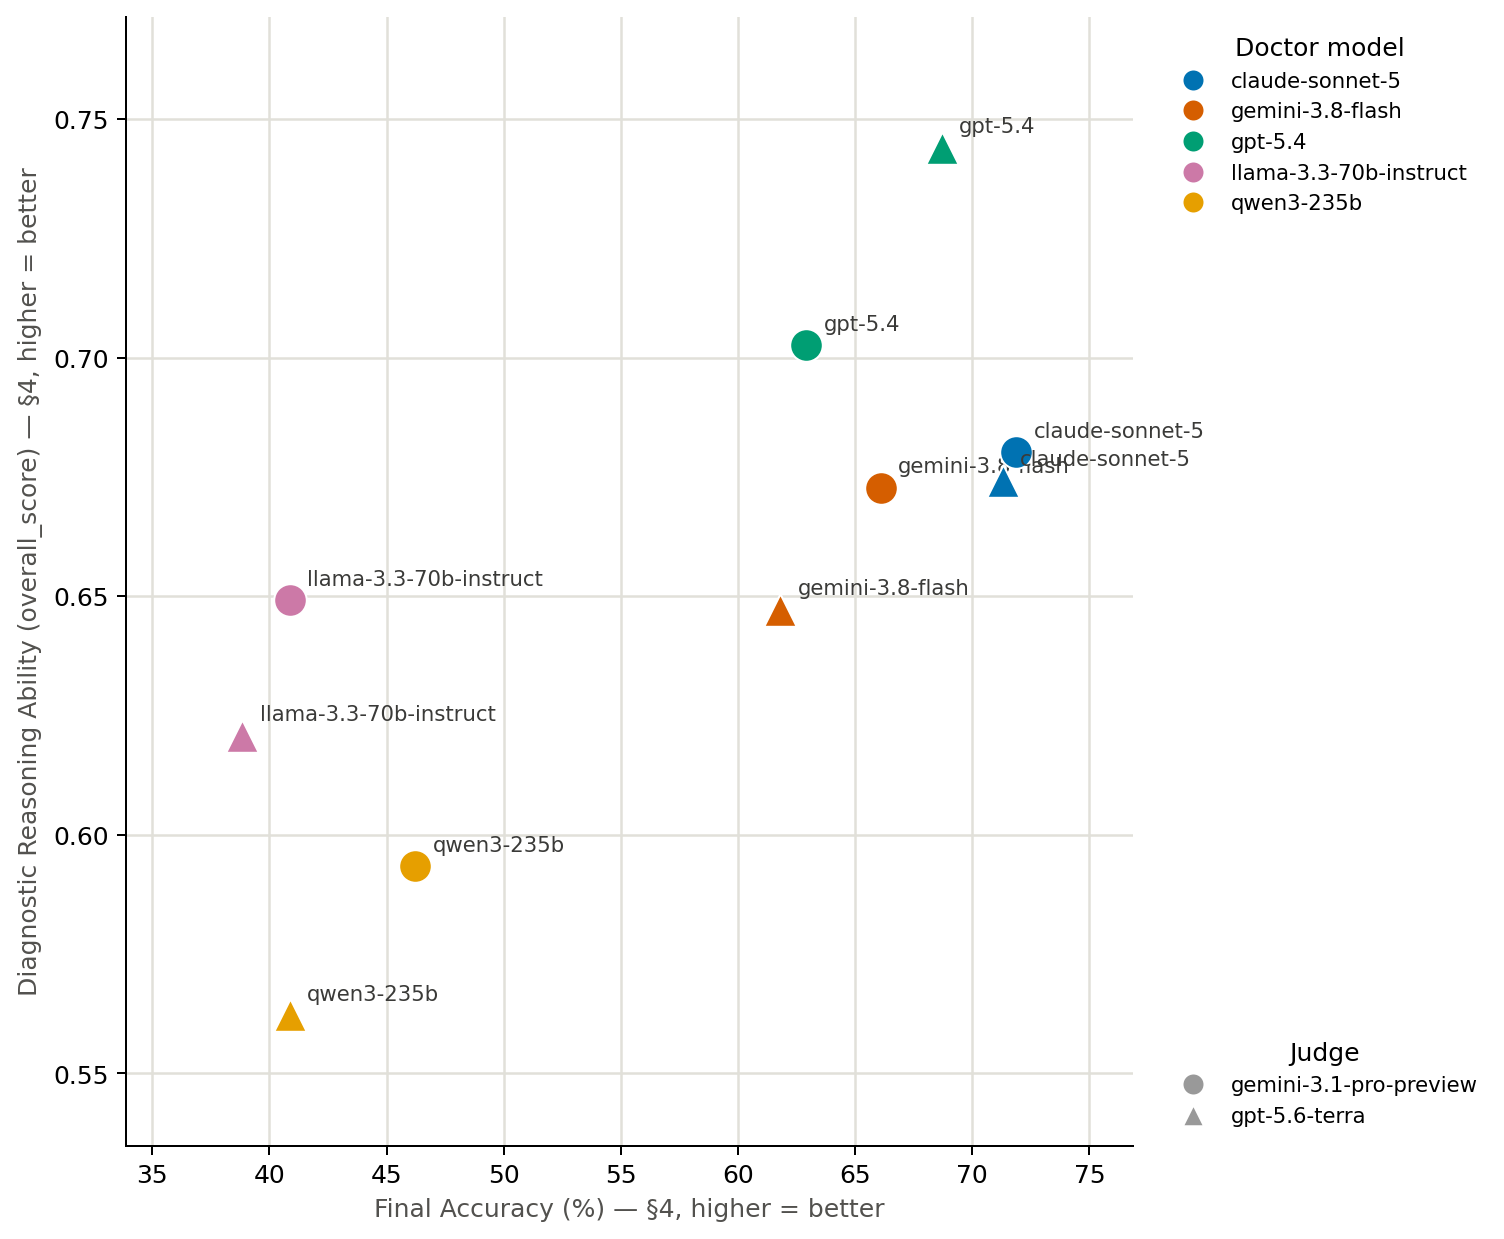
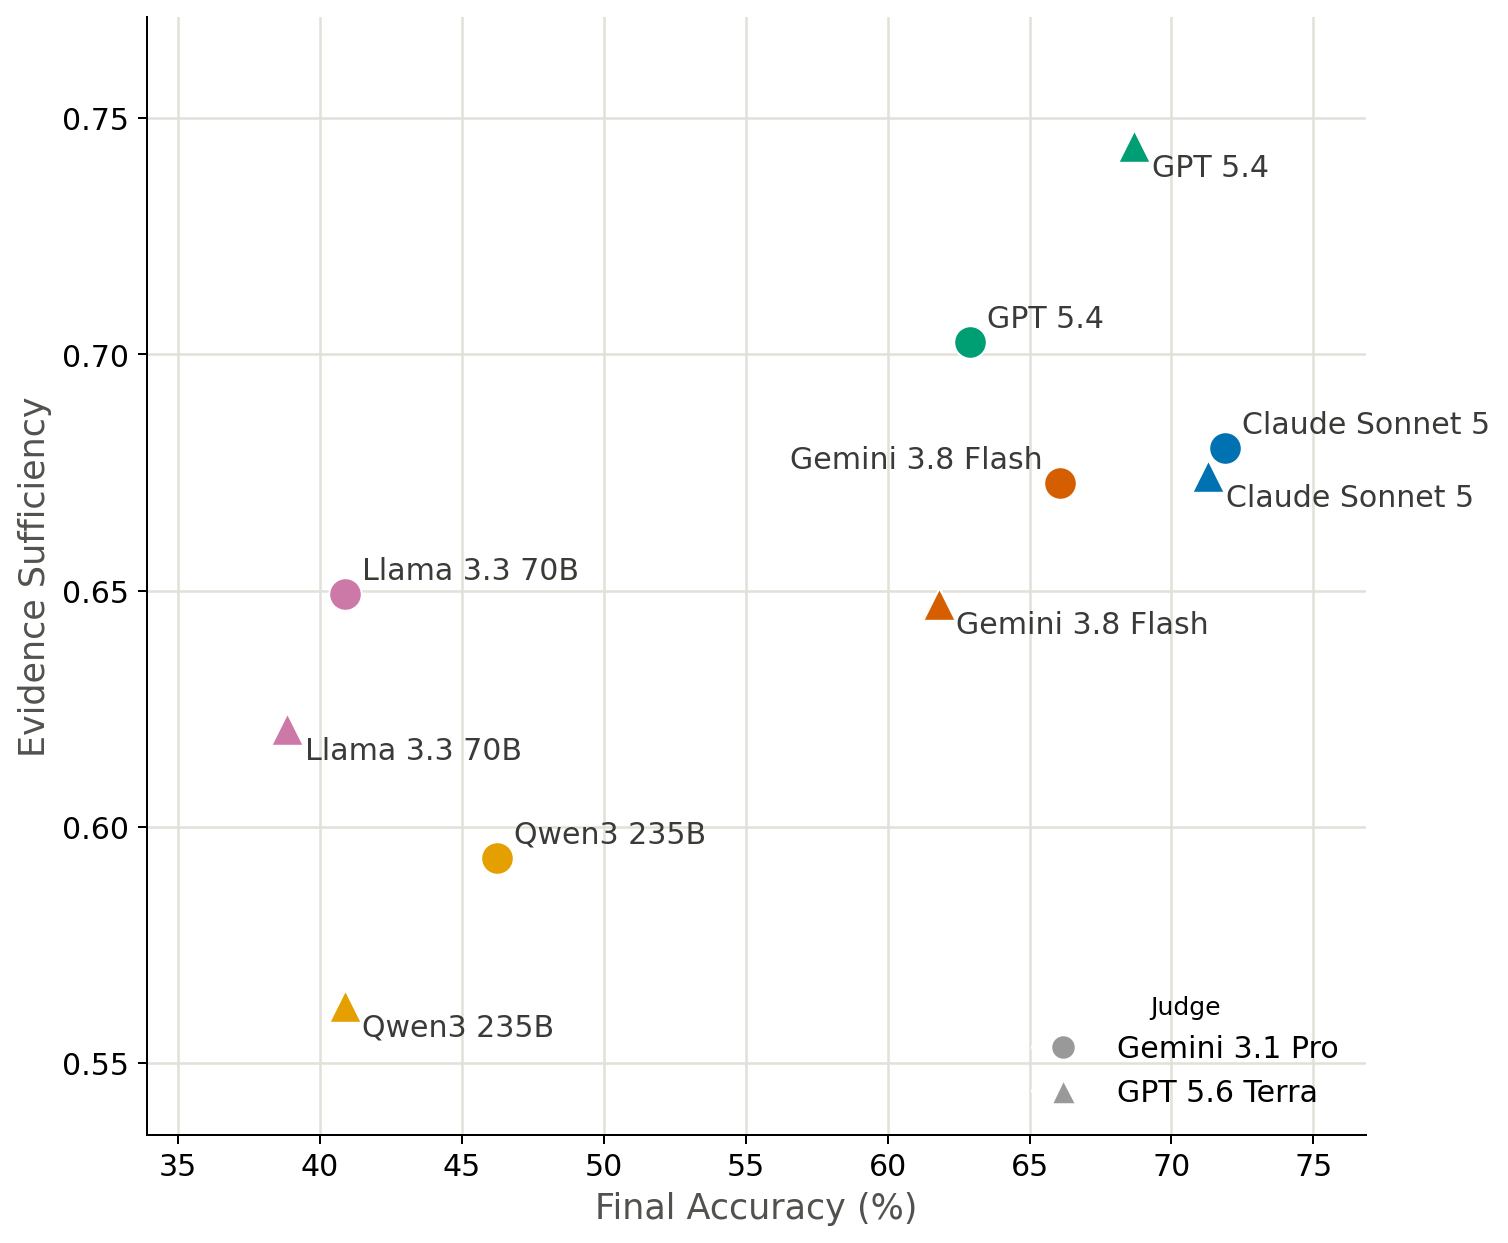
accuracy vs reasoning

diff --git a/reporting/plot_v4_accuracy_vs_reasoning.py b/reporting/plot_v4_accuracy_vs_reasoning.py
@@ -46,6 +46,12 @@ if str(_REPO_ROOT) not in _sys.path:
 os.environ.setdefault("MS_RUN", "run_batch_20260912")
 
 from utils.paths import ANALYSIS_ROOT
+from reporting.plot_v4_radar_by_judge import DOCTOR_NAME_CANONICAL
+
+JUDGE_NAME_CANONICAL = {
+    "gemini-3.1-pro-preview": "Gemini 3.1 Pro",
+    "gpt-5.6-terra": "GPT 5.6 Terra",
+}
 
 SELECTED_DOCTORS = {
     "gpt-5.4",
@@ -108,14 +114,21 @@ def main() -> None:
 
     fig, ax = plt.subplots(figsize=(8.5, 7))
     seen_models: set[str] = set()
+    annotations = []
     for judge, doctor, x, y in points:
         color = color_of[doctor.lower()]
         label = doctor if doctor.lower() not in seen_models else None
         seen_models.add(doctor.lower())
         ax.scatter(x, y, color=color, marker=marker_of[judge], s=170,
                    edgecolors="white", linewidths=0.8, zorder=3, label=label)
-        ax.annotate(doctor, (x, y), textcoords="offset points", xytext=(7, 6),
-                    fontsize=8.5, color="#3a3a38")
+        # Same doctor's two judge points often sit close together (same
+        # color): stagger the label vertically by judge index so they don't
+        # collide, instead of every label defaulting to the same offset.
+        y_off = 6 - 18 * judges.index(judge)
+        ann = ax.annotate(DOCTOR_NAME_CANONICAL.get(doctor.lower(), doctor), (x, y),
+                           textcoords="offset points", xytext=(7, y_off),
+                           fontsize=12, color="#3a3a38")
+        annotations.append((ann, x, y, y_off))
 
     xs = [p[2] for p in points]
     ys = [p[3] for p in points]
@@ -124,8 +137,9 @@ def main() -> None:
     ax.set_xlim(min(xs) - x_pad, max(xs) + x_pad)
     ax.set_ylim(min(ys) - y_pad, max(ys) + y_pad)
 
-    ax.set_xlabel("Final Accuracy (%) — §4, higher = better", fontsize=10, color="#52514e")
-    ax.set_ylabel("Diagnostic Reasoning Ability (overall_score) — §4, higher = better", fontsize=10, color="#52514e")
+    ax.set_xlabel("Final Accuracy (%)", fontsize=14, color="#52514e")
+    ax.set_ylabel("Evidence Sufficiency", fontsize=14, color="#52514e")
+    ax.tick_params(axis="both", labelsize=12)
     # ax.set_title(
     #     "evaluation_v4.md §4 — Final Accuracy vs. Diagnostic Reasoning Ability\n"
     #     "(color = doctor model; marker shape = judge)",
@@ -136,23 +150,63 @@ def main() -> None:
     for spine in ["top", "right"]:
         ax.spines[spine].set_visible(False)
 
-    model_handles = [
-        plt.Line2D([0], [0], marker="o", color="w", markerfacecolor=color_of[d],
-                   markeredgecolor="white", markersize=9, label=d)
-        for d in canonical_doctors
-    ]
     judge_handles = [
         plt.Line2D([0], [0], marker=marker_of[j], color="w", markerfacecolor="#999999",
-                   markeredgecolor="white", markersize=9, label=j)
+                   markeredgecolor="white", markersize=10, label=JUDGE_NAME_CANONICAL.get(j, j))
         for j in judges
     ]
-    leg1 = ax.legend(handles=model_handles, title="Doctor model", loc="upper left",
-                      bbox_to_anchor=(1.02, 1.0), fontsize=8.5, frameon=False)
-    ax.add_artist(leg1)
-    ax.legend(handles=judge_handles, title="Judge", loc="lower left",
-              bbox_to_anchor=(1.02, 0.0), fontsize=8.5, frameon=False)
+    # legend: models (dropped — doctor identity is already given by the
+    # canonical-name point annotations, same convention as
+    # plot_v4_precision_vs_recall.py)
+    ax.legend(handles=judge_handles, title="Judge", loc="lower right",
+              fontsize=12, frameon=False)
 
     fig.tight_layout()
+
+    # Resolve remaining label collisions: a label can run into either
+    # another label's text OR a nearby point's marker (a label two doctors
+    # apart in x can still slide its text right over a closer neighbor's
+    # dot). Match the save dpi here — checking at the figure's default
+    # (lower) dpi under-detects overlaps that only appear once text is
+    # rendered at the larger, actually-saved size.
+    fig.set_dpi(180)
+    fig.canvas.draw()
+    renderer = fig.canvas.get_renderer()
+
+    marker_radius_px = 0.5 * (170 ** 0.5) * (180 / 72)  # scatter s=170, pt->px at dpi=180
+    marker_bboxes = []
+    for _judge, _doctor, x, y in points:
+        px, py = ax.transData.transform((x, y))
+        marker_bboxes.append(plt.matplotlib.transforms.Bbox(
+            [[px - marker_radius_px, py - marker_radius_px],
+             [px + marker_radius_px, py + marker_radius_px]]))
+
+    def _flip_left(mover, y_off_m):
+        mover.set_ha("right")
+        mover.xyann = (-7, y_off_m)
+
+    for _pass in range(2):  # a flip can create a new collision; two passes settles it
+        moved_any = False
+        for i in range(len(annotations)):
+            ann_i, xi, yi, y_off_i = annotations[i]
+            bbox_i = ann_i.get_window_extent(renderer)
+            for k, mbbox in enumerate(marker_bboxes):
+                if k == i:
+                    continue
+                if bbox_i.overlaps(mbbox):
+                    _flip_left(ann_i, y_off_i)
+                    bbox_i = ann_i.get_window_extent(renderer)
+                    moved_any = True
+            for j in range(i + 1, len(annotations)):
+                ann_j, xj, yj, y_off_j = annotations[j]
+                bbox_j = ann_j.get_window_extent(renderer)
+                if bbox_i.overlaps(bbox_j):
+                    mover, y_off_m = (ann_i, y_off_i) if xi <= xj else (ann_j, y_off_j)
+                    _flip_left(mover, y_off_m)
+                    bbox_i = ann_i.get_window_extent(renderer)
+                    moved_any = True
+        if not moved_any:
+            break
     out_path = Path(args.out) if args.out else ANALYSIS_ROOT / "v4_accuracy_vs_reasoning.png"
     out_path.parent.mkdir(parents=True, exist_ok=True)
     fig.savefig(out_path, dpi=180, bbox_inches="tight")

diff --git a/reporting/plot_decision_vs_evidence.py b/reporting/plot_decision_vs_evidence.py
@@ -153,7 +153,7 @@ def main() -> None:
         doctors = [d for d, _s, _n in rows]
         x = np.arange(len(doctors))
 
-        fig, ax = plt.subplots(figsize=(2.3 * len(doctors) + 2.5, 6.5))
+        fig, ax = plt.subplots(figsize=(1.55 * len(doctors) + 2.5, 6.5))
 
         bottom = np.zeros(len(doctors))
         for key, label, color, hatch in CATEGORIES:
@@ -177,7 +177,7 @@ def main() -> None:
         ax.spines[["top", "right"]].set_visible(False)
         # ax.set_title(f"Judge: {judge}", fontsize=13, fontweight="bold", pad=14)
 
-        ax.legend(loc="upper center", bbox_to_anchor=(0.5, -0.14), ncol=2,
+        ax.legend(loc="upper center", bbox_to_anchor=(0.5, -0.1), ncol=2,
                   fontsize=14, frameon=False)
 
         # style_note = f"style={style}" if style else "all styles"
